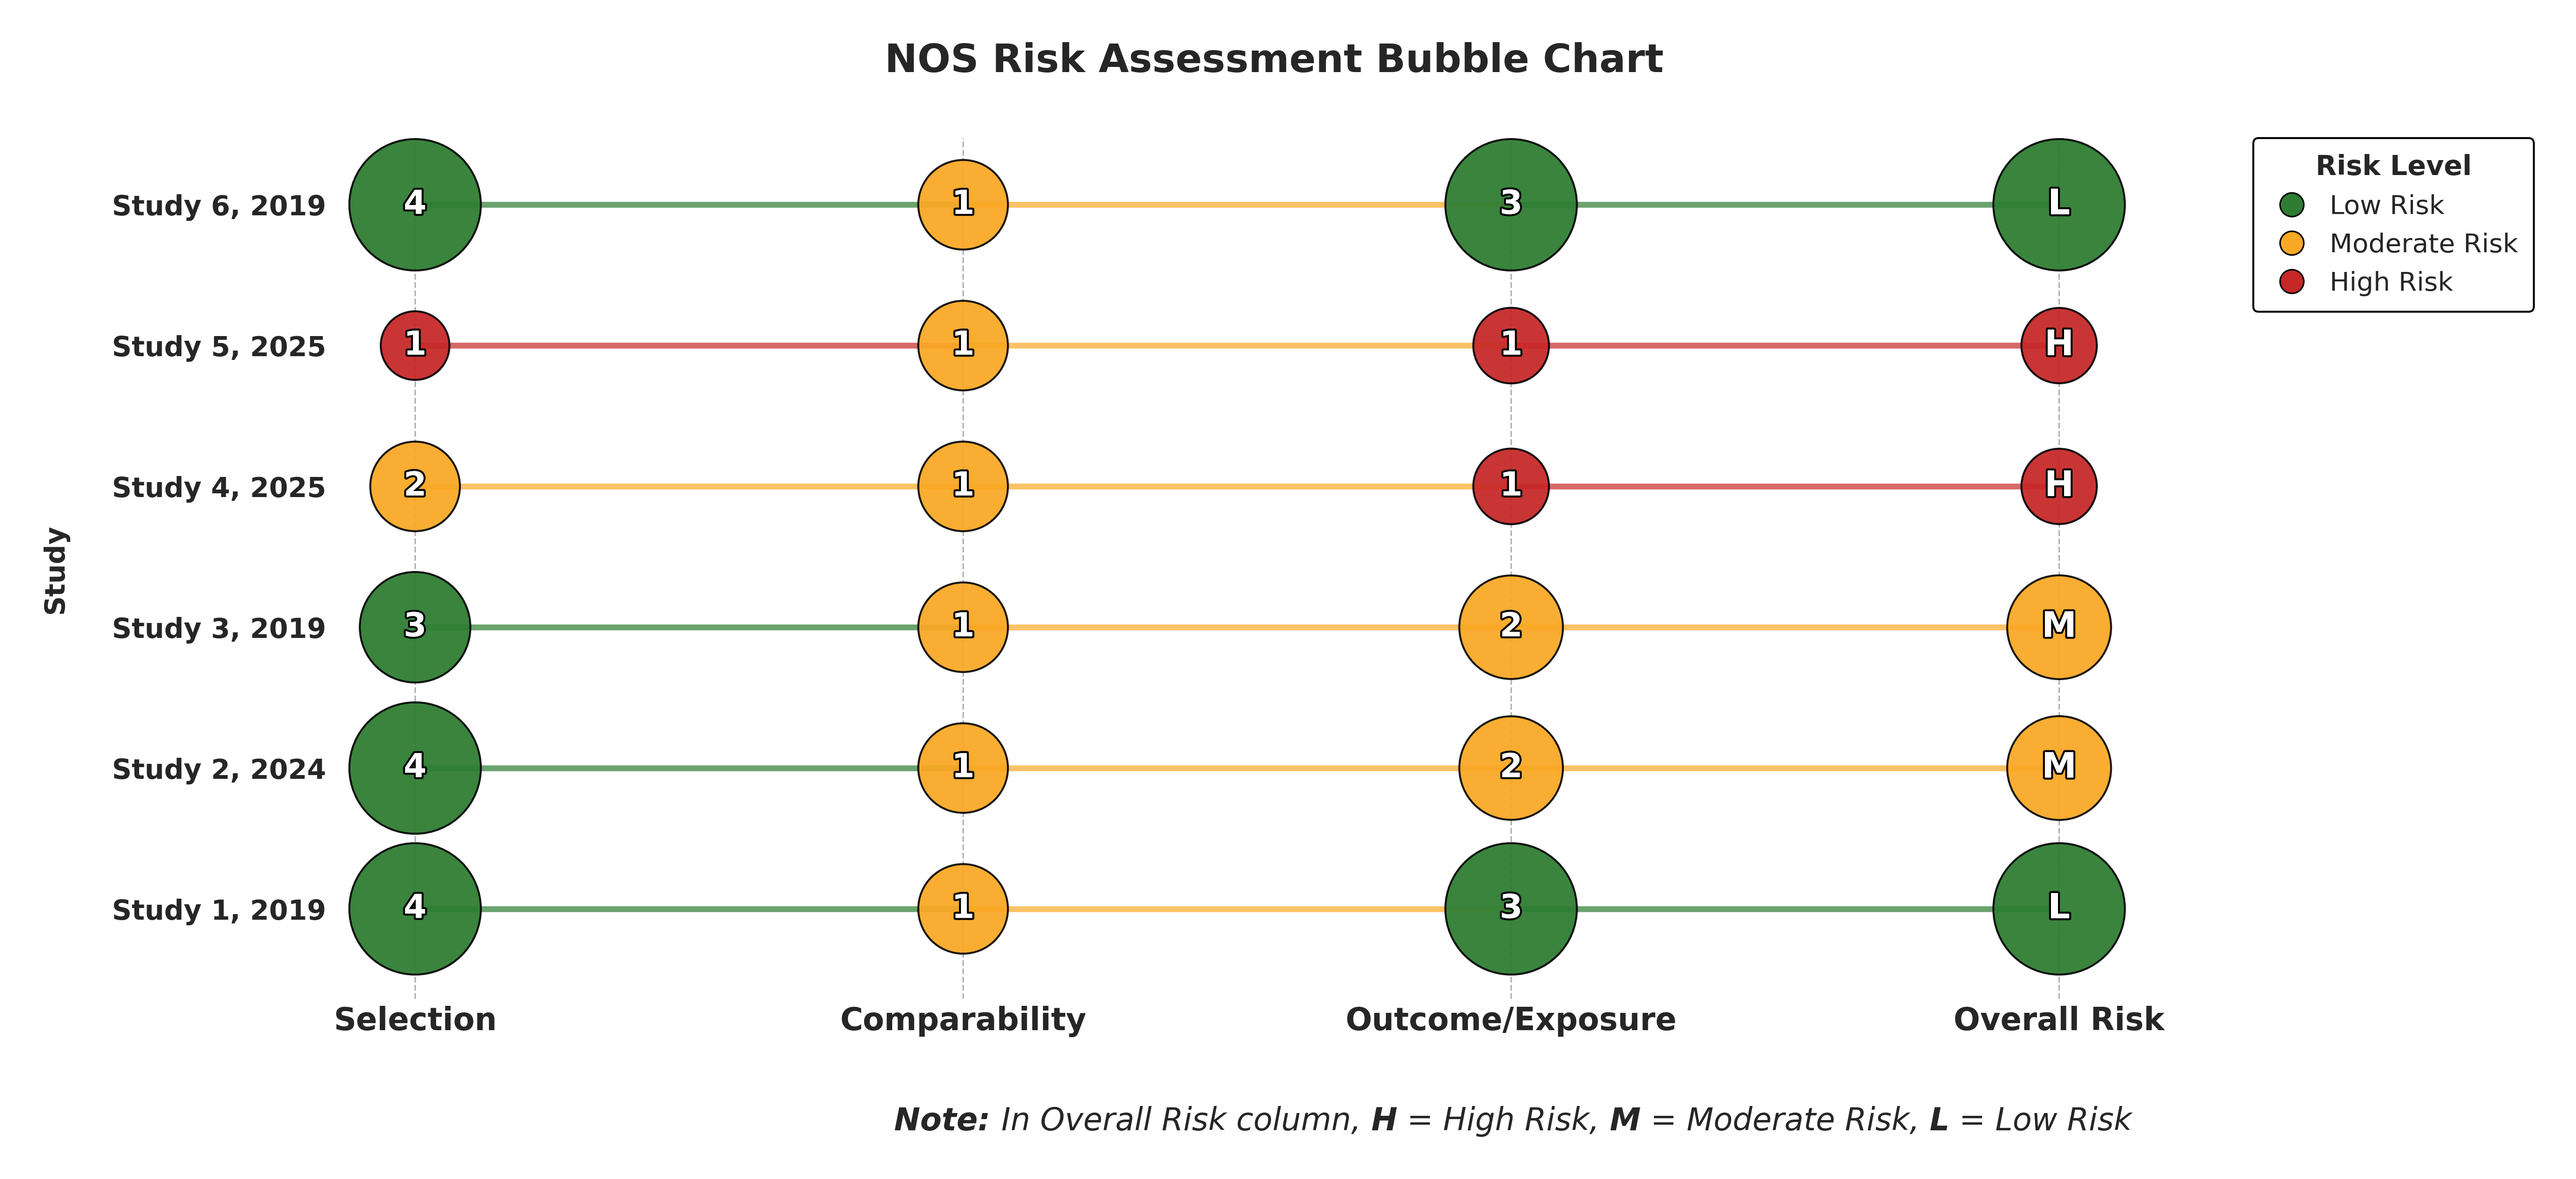
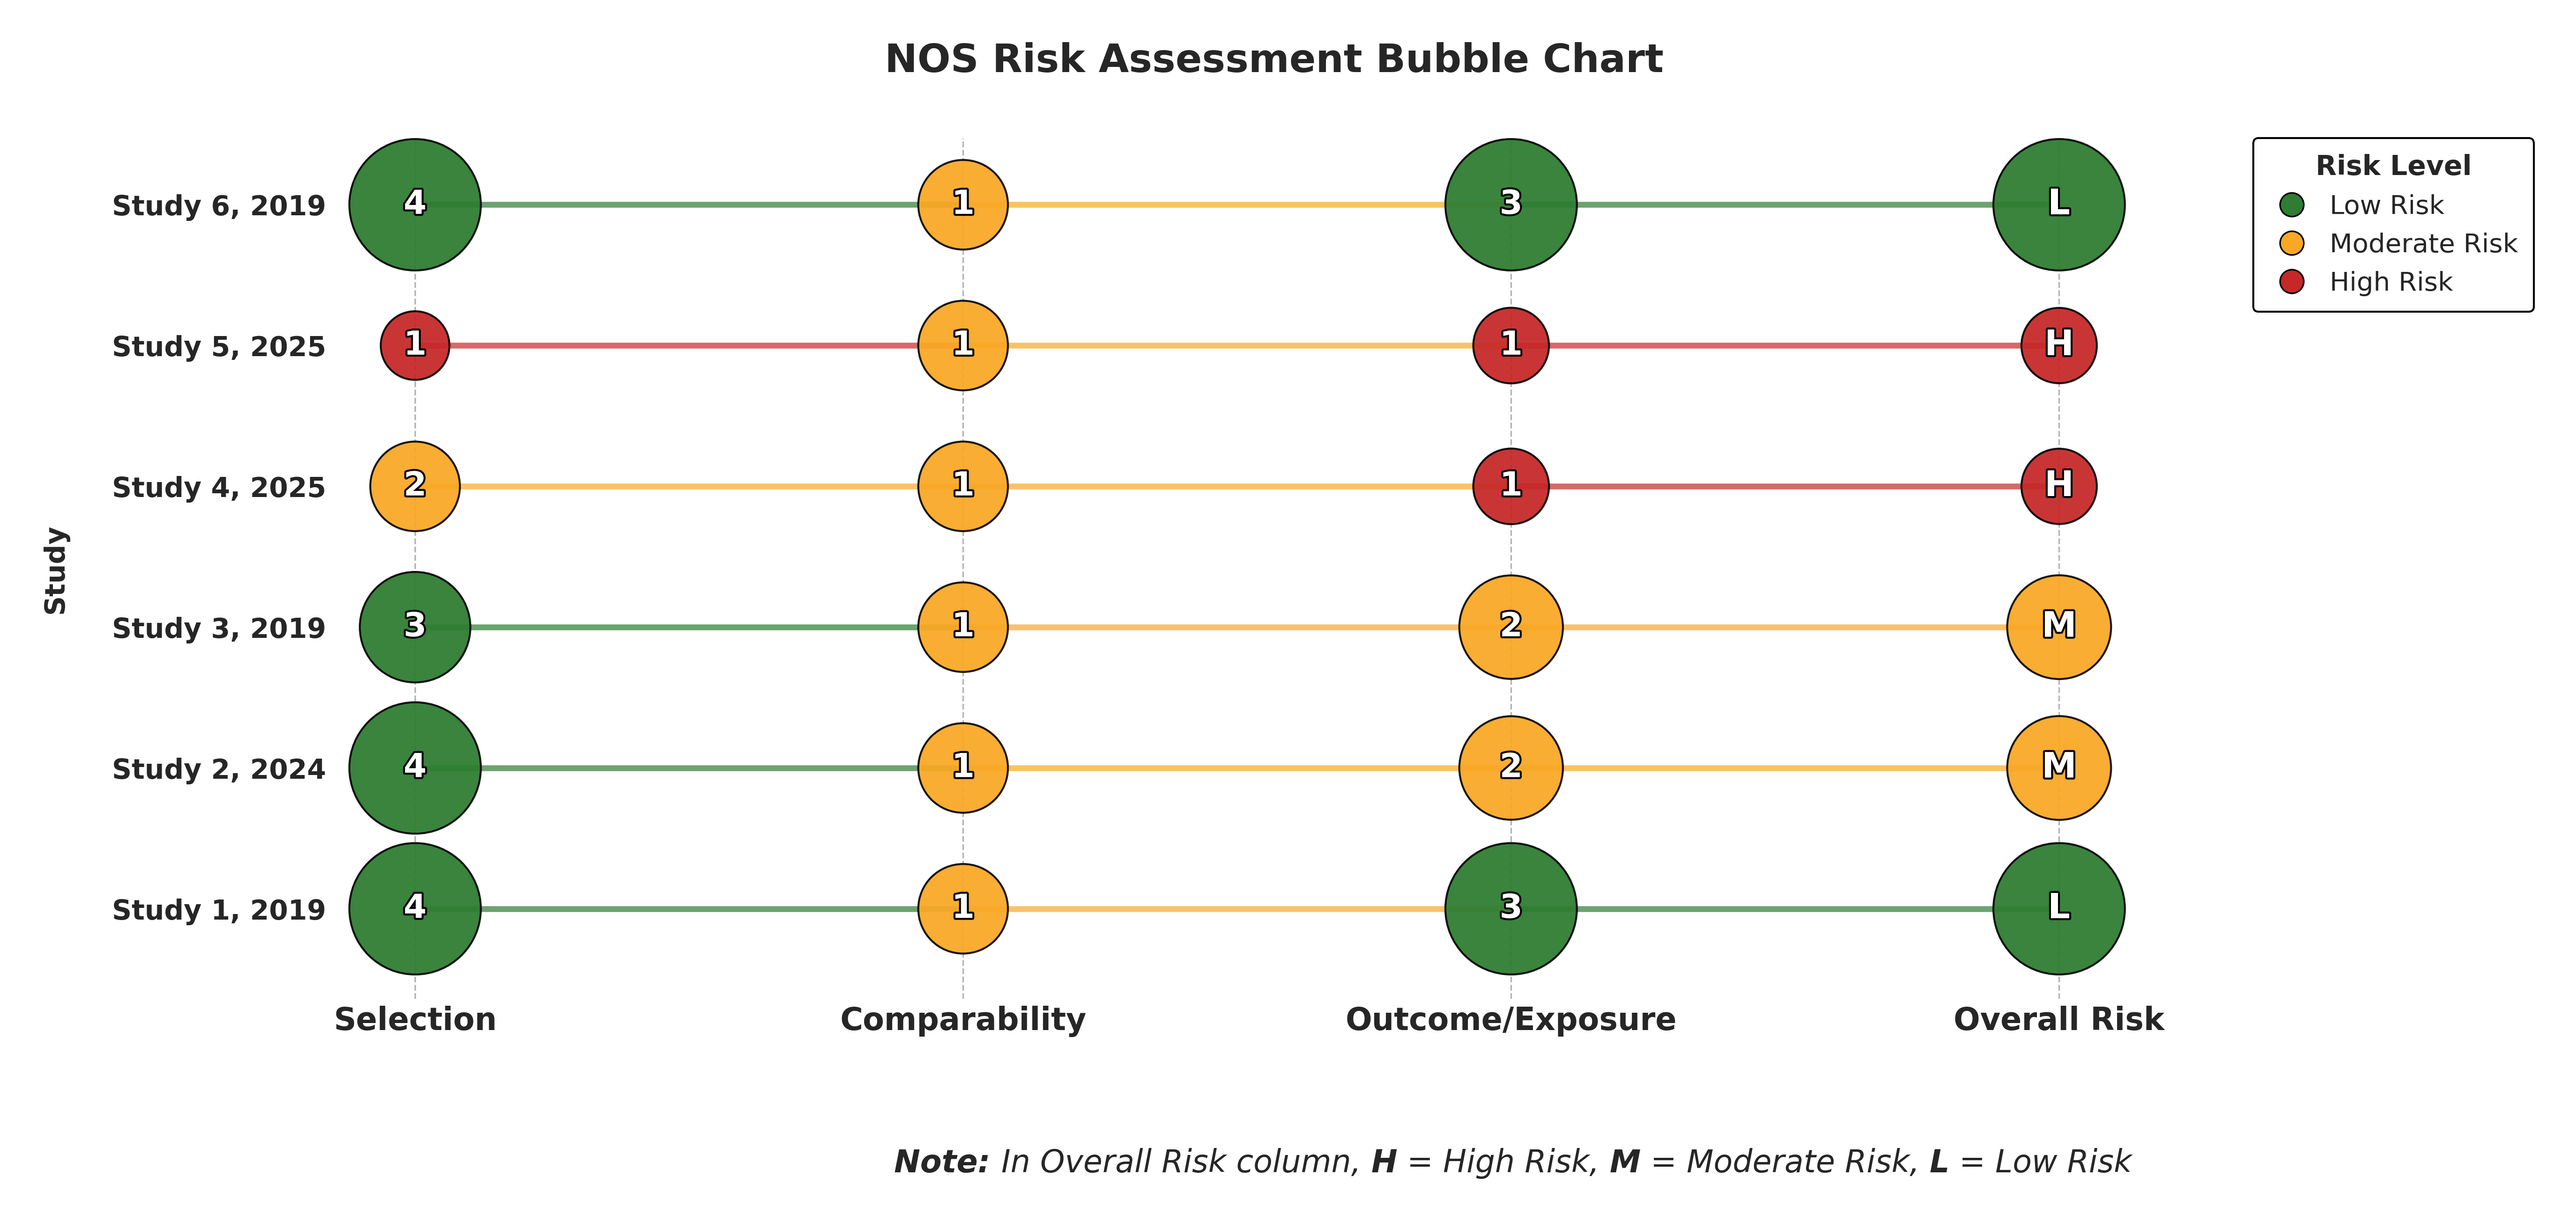
move bubble chart note farther down

diff --git a/nos_tlplot.py b/nos_tlplot.py
@@ -246,7 +246,7 @@ def professional_plot(df: pd.DataFrame, output_file: str, theme: str = "traffic_
         ("L", True),
         (" = Low Risk", False),
     ]
-    note_y = -0.01
+    note_y = -0.05
     note_texts = [fig.text(0.5, note_y, text, ha='left', va='center', fontsize=16, style='italic',
                            fontweight='bold' if bold else 'normal')
                   for text, bold in note_parts]
